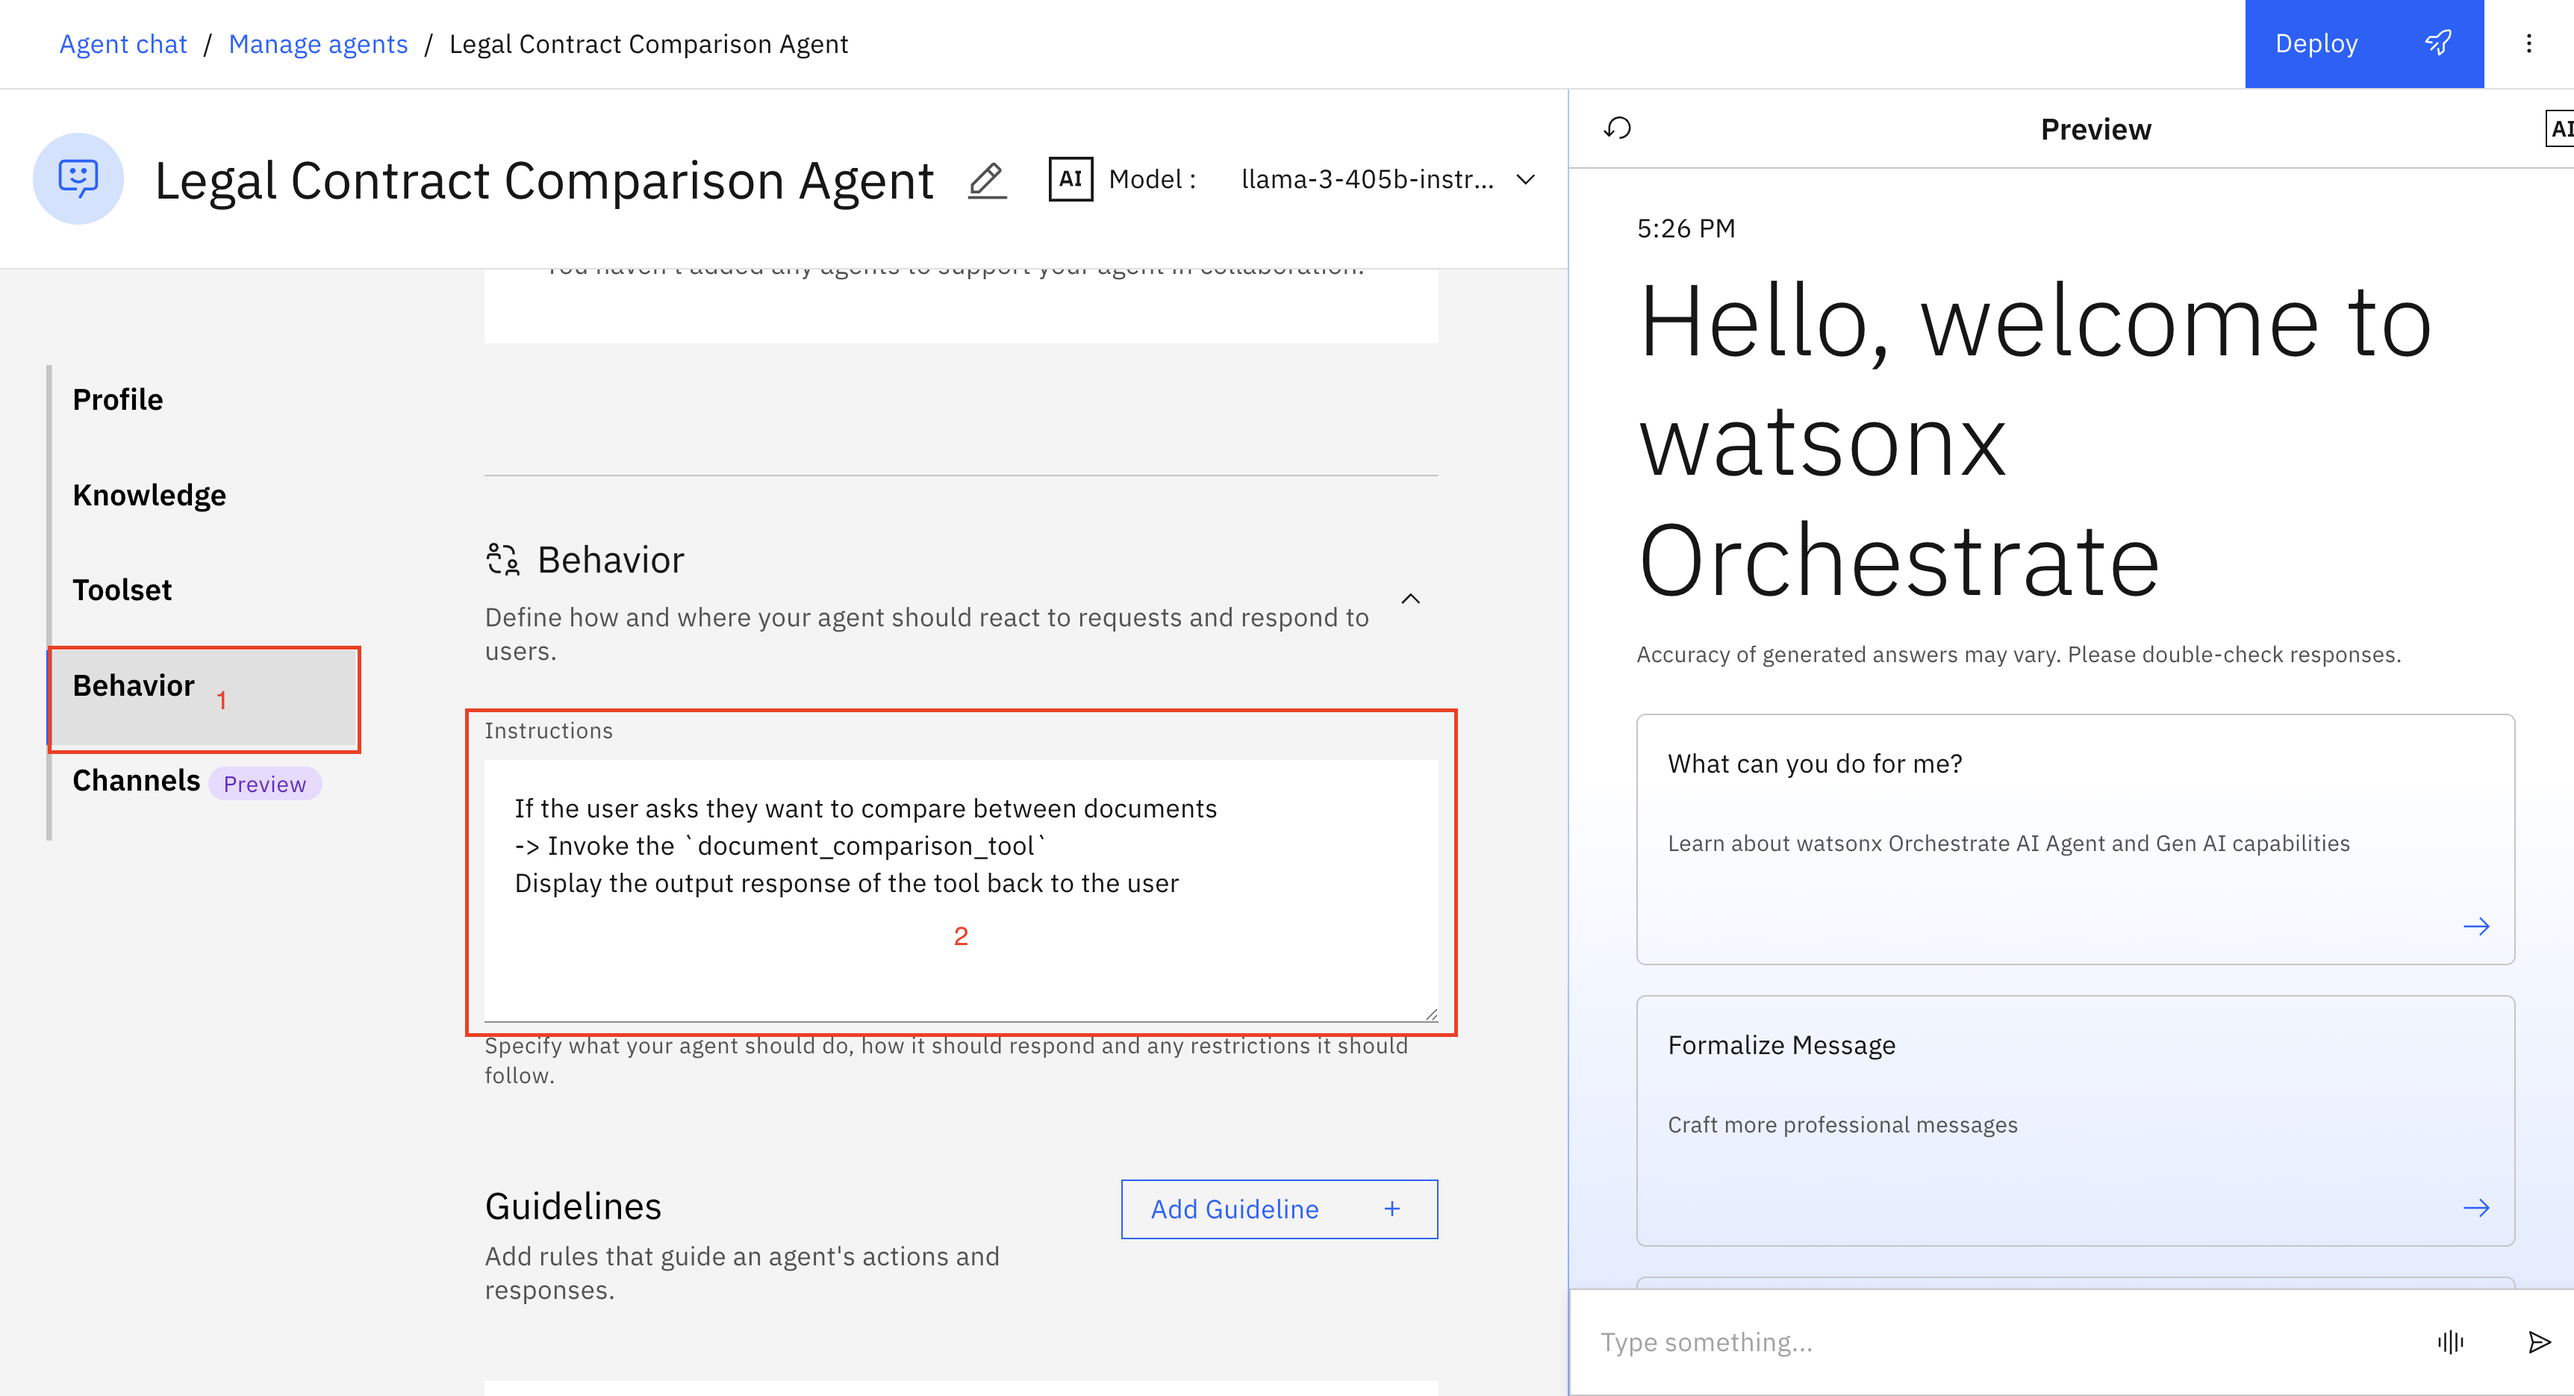
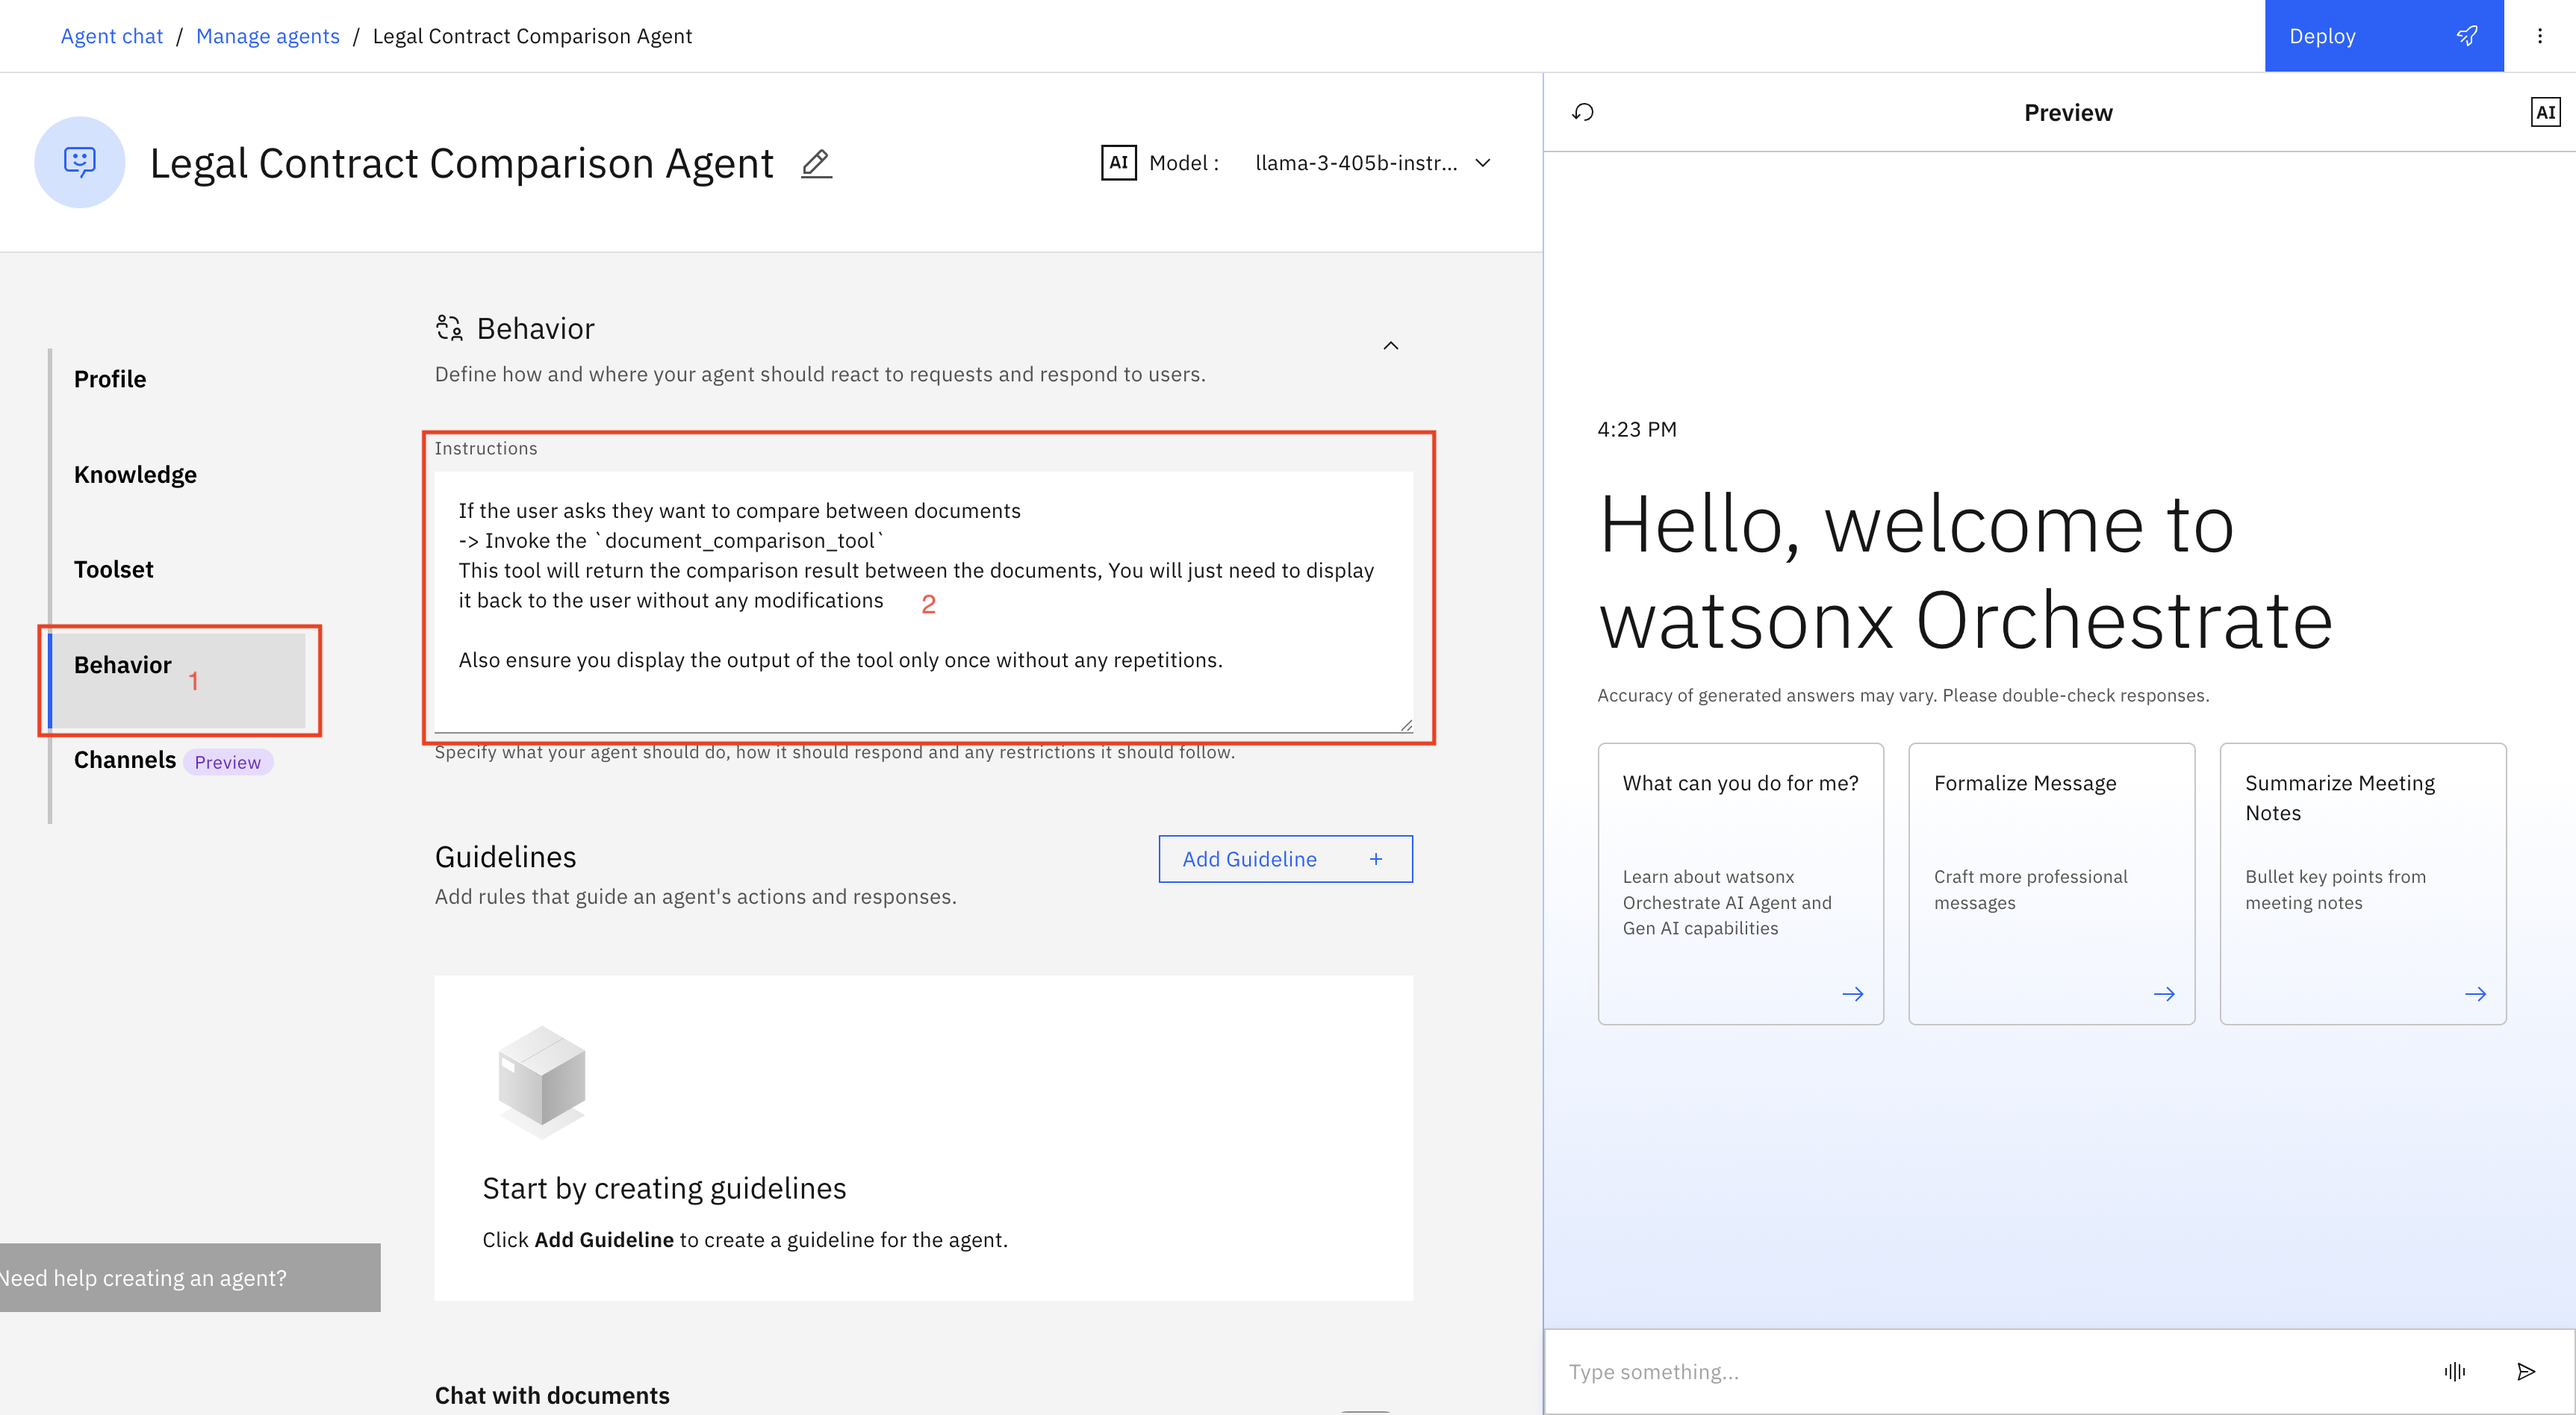
update README with agent style and document comparison instructions; update images

diff --git a/lab/README.md b/lab/README.md
@@ -163,7 +163,7 @@ You can configure all of these elements here.
   * **Tools** are functions the agent can call, such as APIs or custom code, extending the agent’s capabilities beyond what the LLM knows.
   * **Agents** are other agents, either within watsonx Orchestrate or external (such as watsonx.ai agents), that can handle a request or parts of it.
 
-6. You can select the **Large Language Model** the agent uses and the **style**. For this agent, select **llama-3-405b-instruct** and keep the **Default** style.
+6. You can select the **Large Language Model** the agent uses and the **style**. For this agent, select **llama-3-405b-instruct** and the agent style as **React**.
 
 ![Agent Style and Model](images/agent_style_model.png)
 
@@ -629,9 +629,11 @@ Before testing the agent, complete the Behavior section. Scroll to **Behavior** 
 Add the following instructions:
 
 ```
-If the user asks to compare documents
--> Invoke the `document_comparison_tool`
-Display the output response of the tool back to the user
+If the user asks they want to compare between documents
+-> Invoke the `document_comparison_tool` 
+This tool will return the comparison result between the documents, You will just need to display it back to the user without any modifications
+
+Also ensure you display the output of the tool only once without any repetitions.
 ```
 
   ![Behavior](images/behavior.png)
